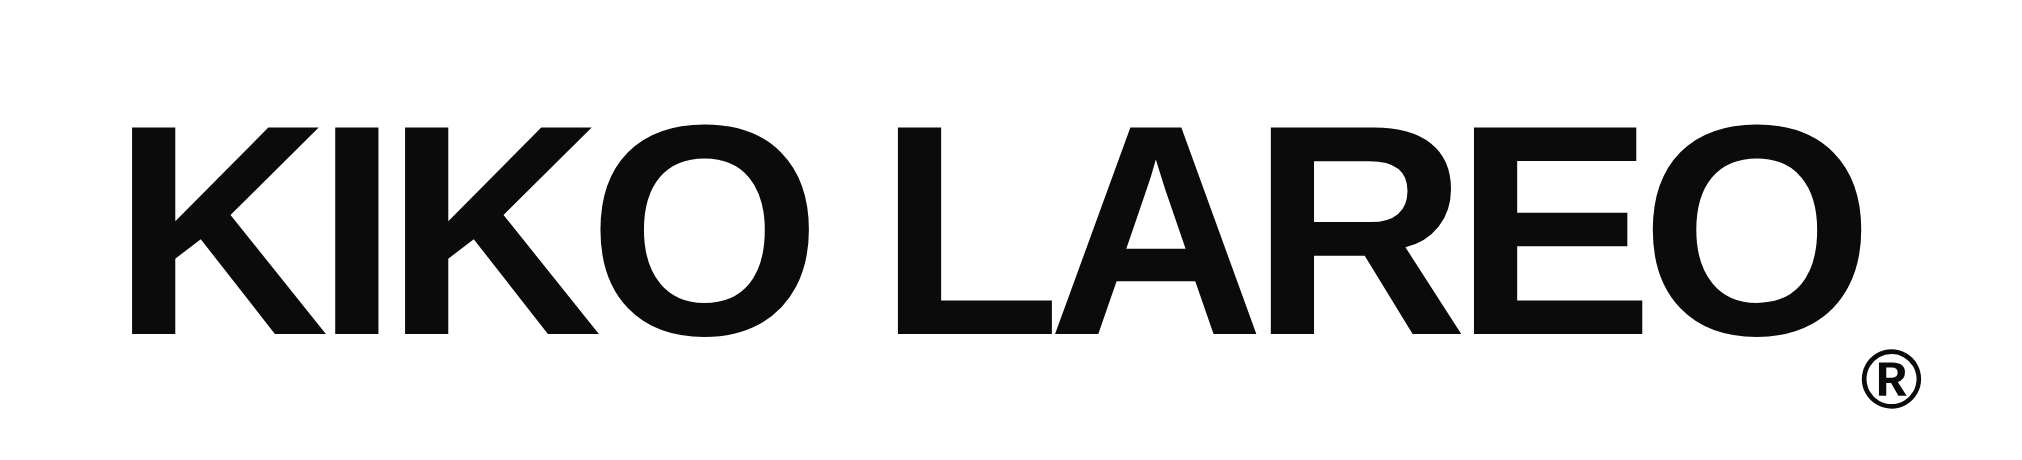
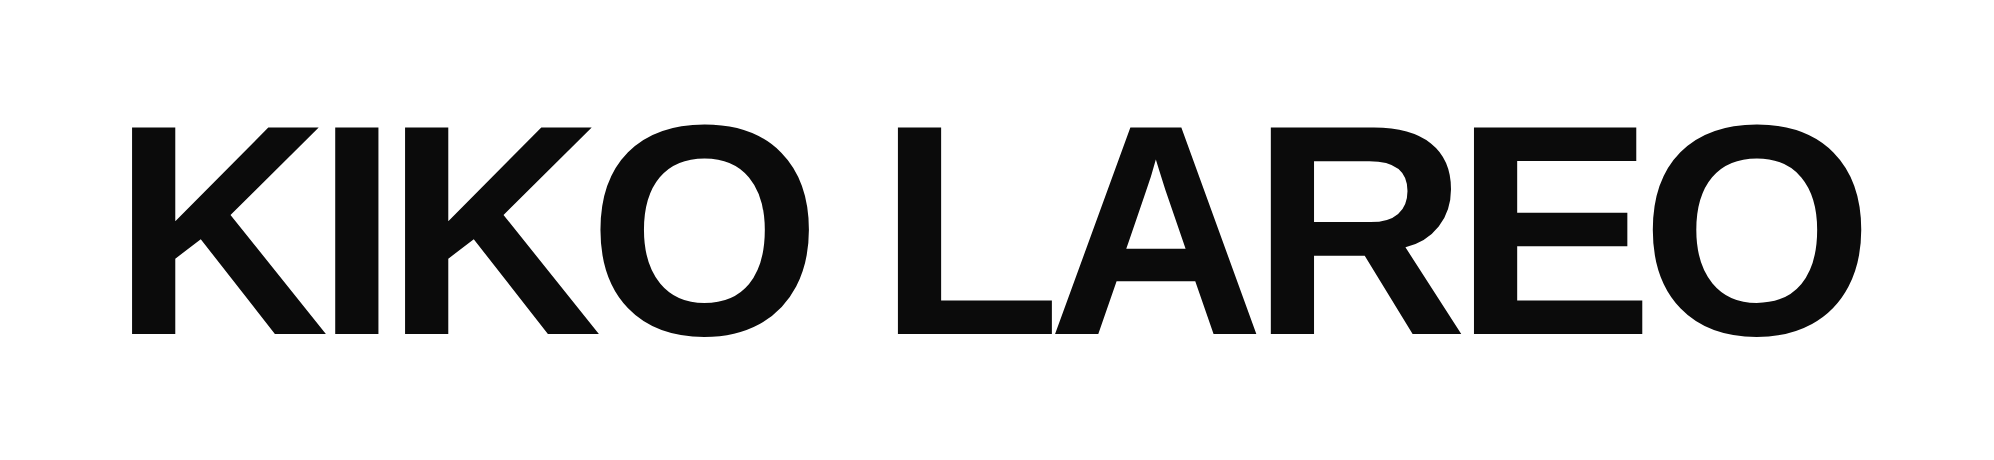
Fuera la R de registrado: el nombre no esta registrado
36 apariciones en 19 archivos: la cabecera y el pie de todas las paginas, el
titular gigante de la portada, los titulos de pestana y de Google, el nombre
del sitio al compartir en redes, el panel (titulo y valor por defecto del
titular), el README y el ROADMAP.

Logo: el wordmark (SVG y los dos PNG, negro y crema) llevaba la R pegada
abajo a la derecha de la O. Se borra y se recorta el lienzo para que el
margen derecho sea igual que el izquierdo (132 px en los PNG; en el SVG se
mide la tipografia real del sitio: la tinta va de 50 a 1777, asi que el
lienzo pasa de 2029 a 1828). El monograma KL. y los avatares no la llevaban.

Se deja el codigo que pinta la R pequena en el titular si este acaba en ella:
si algun dia se registra, basta con escribirla en el panel.

El (c) del pie se queda: es derecho de autor y no pide registro.

Comprobado en el sitio generado: cero R en el HTML, XML, JSON y TXT; la
cabecera y el titular de la portada salen sin ella a 1300 y 390 px, sin
errores de JS ni scroll horizontal.

Claude-Session: https://claude.ai/code/session_01L3fgpxzEkWUCWmPACtZcB5

diff --git a/web/src/lib/categorias.ts b/web/src/lib/categorias.ts
@@ -23,7 +23,7 @@ export const CATEGORIAS: Categoria[] = [
     cardPos: 0,
     placeholders: ['Deportes — acción principal', 'Deportes — detalle', 'Deportes — ambiente'],
     seo: {
-      titulo: 'Fotógrafo deportivo en A Coruña y Galicia — Kiko Lareo®',
+      titulo: 'Fotógrafo deportivo en A Coruña y Galicia — Kiko Lareo',
       descripcion:
         'Fotografía y vídeo deportivo en A Coruña y toda Galicia: carreras, ciclismo, competiciones y clubes. Cobertura profesional de eventos deportivos por Kiko Lareo.',
     },
@@ -37,7 +37,7 @@ export const CATEGORIAS: Categoria[] = [
     cardPos: 2,
     placeholders: ['Eventos — público', 'Eventos — escenario', 'Eventos — momento clave'],
     seo: {
-      titulo: 'Fotógrafo de eventos y conciertos en A Coruña — Kiko Lareo®',
+      titulo: 'Fotógrafo de eventos y conciertos en A Coruña — Kiko Lareo',
       descripcion:
         'Fotografía y vídeo de eventos, festivales y conciertos en A Coruña y Galicia: foto, vídeo y aftermovie. Entrega rápida para redes sociales.',
     },
@@ -52,7 +52,7 @@ export const CATEGORIAS: Categoria[] = [
     tall: true,
     placeholders: ['Moda — look 1', 'Moda — editorial principal', 'Moda — detalle'],
     seo: {
-      titulo: 'Fotógrafo de moda y lookbooks en A Coruña — Kiko Lareo®',
+      titulo: 'Fotógrafo de moda y lookbooks en A Coruña — Kiko Lareo',
       descripcion:
         'Fotografía editorial de moda en A Coruña y Galicia: lookbooks, campañas y dirección de arte para marcas y diseñadores.',
     },
@@ -66,7 +66,7 @@ export const CATEGORIAS: Categoria[] = [
     cardPos: 0,
     placeholders: ['Hostelería — plato estrella', 'Hostelería — sala / ambiente', 'Hostelería — proceso'],
     seo: {
-      titulo: 'Fotógrafo gastronómico y de hostelería en Galicia — Kiko Lareo®',
+      titulo: 'Fotógrafo gastronómico y de hostelería en Galicia — Kiko Lareo',
       descripcion:
         'Fotografía para hostelería en A Coruña y Galicia: restaurantes, gastronomía, producto y contenido para redes sociales. Fotos que hacen que el plato se pida solo.',
     },
@@ -80,7 +80,7 @@ export const CATEGORIAS: Categoria[] = [
     cardPos: 2,
     placeholders: ['Naturaleza — costa', 'Naturaleza — luz', 'Naturaleza — detalle'],
     seo: {
-      titulo: 'Fotografía de naturaleza y paisaje en A Coruña — Kiko Lareo®',
+      titulo: 'Fotografía de naturaleza y paisaje en A Coruña — Kiko Lareo',
       descripcion:
         'Fotografía de naturaleza y paisaje en A Coruña y Galicia: playas, costa, mar y luz atlántica. La mirada personal de Kiko Lareo fuera de los encargos.',
     },

diff --git a/web/src/content.config.ts b/web/src/content.config.ts
@@ -153,7 +153,7 @@ const paginas = defineCollection({
     // 'letras': la foto se ve DENTRO de las letras gigantes (máscara)
     hero_estilo: z.enum(['fondo', 'tarjeta', 'letras']).default('fondo'),
     // Titular gigante del hero. El nombre no caduca; una frase, encasilla.
-    hero_titular: z.string().default('KIKO\nLAREO®'),
+    hero_titular: z.string().default('KIKO\nLAREO'),
     reel: z.object({
       titulo: z.string(),
       etiqueta: z.string(),

diff --git a/web/src/styles/global.css b/web/src/styles/global.css
@@ -1,5 +1,5 @@
 /* ==========================================================================
-   KIKO LAREO® — KL / VISUAL ARCHIVE
+   KIKO LAREO — KL / VISUAL ARCHIVE
    Identidad: archivo editorial · blanco papel + negro carbón + rojo flash
    Tipografías: Bricolage Grotesque (titulares y cuerpo) + IBM Plex Mono (metadatos)
    ========================================================================== */

diff --git a/web/public/admin/index.html b/web/public/admin/index.html
@@ -3,7 +3,7 @@
 <head>
 <meta charset="utf-8">
 <meta name="viewport" content="width=device-width, initial-scale=1">
-<title>Panel — Kiko Lareo®</title>
+<title>Panel — Kiko Lareo</title>
 <meta name="robots" content="noindex">
 <style>
   /* ------------------------------------------------------------------

diff --git a/CLAUDE.md b/CLAUDE.md
@@ -134,6 +134,7 @@ Causa localizada: `min-width: 800px` en `EditorContainer` y en
 - **Embeds verticales** (Instagram/TikTok): marco estrecho centrado (`.embed-vertical`) + script que ajusta alto por postMessage. Horizontales (YT/Vimeo) → 16:9.
 - **Entregas a clientes:** se usa Pixieset (externo), no se suben al repo.
 - **Textos que suenan a máquina (el dueño lo detecta y lo odia, 04/11/2026).** Lo que delataba al "Sobre mí" original: (1) dos puntos seguidos de una lista de cuatro cosas con la misma forma ("la tensión de un sprint, el caos bonito de un concierto, la actitud de un lookbook…"); (2) el adjetivo poético fabricado ("el caos bonito"); (3) frases de catálogo encadenadas ("cámara en mano, sin poses forzadas y con obsesión por el detalle"). **Regla: frases cortas, hechos concretos de trabajos reales, y como mucho DOS elementos en una enumeración.** Si un párrafo sirve para cualquier fotógrafo, está mal.
+- **El nombre NO está registrado: nada de ® (ni ™) junto a «Kiko Lareo»** (el dueño lo pidió el 12/11/2026). Lo mismo que no inventar años de experiencia: no afirmar algo que no es cierto. El © del pie (derechos de autor) sí se queda: no requiere registro. El código del hero aún pinta una ® pequeña si el titular acaba en ella, por si algún día se registra.
 - **Sin datos inventados:** el dueño lleva <1 año; no poner años de experiencia, "desde 20XX" ni nº de proyectos falsos.
 - **`hidden` vs `display`:** varios elementos se ocultan con el atributo `hidden` (el visor, las tarjetas del archivo al filtrar). Si el CSS les fija un `display`, ese `display` GANA al atributo y el elemento sigue ahí. El visor cerrado llegó a tapar toda la web y a tragarse todos los clics por esto. Regla: al ocultar con `hidden`, añadir siempre `.loquesea[hidden] { display: none; }`.
 - **NO hay subida múltiple de fotos en Decap 3 (comprobado en el código, 28/09/2026).** El botón de subir crea el input **sin** el atributo `multiple` (`<input type="file" accept="image/*">`, hardcodeado en `FileUploadButton`) y el manejador se queda con el primero: `const{files:a}=e.dataTransfer||e.target, s=[...a][0]`. Probado también `allow_multiple: true` en el campo y ctrl+clic en la biblioteca: sigue insertando una sola. **No perder tiempo buscando la opción de configuración: no existe.** Salidas reales: (a) subir de una en una, (b) que el dueño pase las fotos y se suban por repo, (c) cambiar a una biblioteca externa (Cloudinary/Uploadcare), que sí soporta `multiple: true` pero saca las imágenes del repo.

diff --git a/ROADMAP.md b/ROADMAP.md
@@ -17,7 +17,7 @@ publican al fusionar a `main` (Netlify despliega automáticamente).
 - **Tipografías alojadas en la web** (jul 2026): Bricolage + IBM Plex Mono
   servidas desde /fonts/ (woff2, OFL); fuera Google Fonts. Sin peticiones
   a Google, más rápido y sin enviar IP del visitante fuera de la UE.
-- **Logo y favicon** (jul 2026): wordmark KIKO LAREO® + monograma KL. (con
+- **Logo y favicon** (jul 2026): wordmark KIKO LAREO + monograma KL. (con
   cuadrado rojo) en /public/marca/ (PNG negro/crema + SVG + avatares);
   favicon y apple-touch-icon montados.
 - **Índice del proyecto**: CLAUDE.md en la raíz (se carga solo en cada
@@ -48,7 +48,7 @@ publican al fusionar a `main` (Netlify despliega automáticamente).
   librerías); barra de progreso IDEA━FORMA━RESULTADO; color de acento por
   proyecto (lista cerrada de 5); "SIGUIENTE HISTORIA →" y fórmula de pies
   de foto en el panel. Ajustes de identidad de la misma fecha: hero partido
-  con máscara, titular del hero editable (KIKO LAREO®), categoría
+  con máscara, titular del hero editable (KIKO LAREO), categoría
   Comida→Hostelería (URL incluida) y retirada de fechas/cifras sin respaldo.
 - **Fase 2 — Portada editorial** (17/07/2026): hero con titular
   "HISTORIAS CON LUZ" en tres estilos (fondo / tarjeta / **letras-máscara**,

diff --git a/web/README.md b/web/README.md
@@ -1,4 +1,4 @@
-# Kiko Lareo® — Web con gestor de contenidos
+# Kiko Lareo — Web con gestor de contenidos
 
 Versión definitiva de la web: [Astro](https://astro.build) (generador estático,
 mismo diseño que el prototipo de Claude Design) + [Decap CMS](https://decapcms.org)
